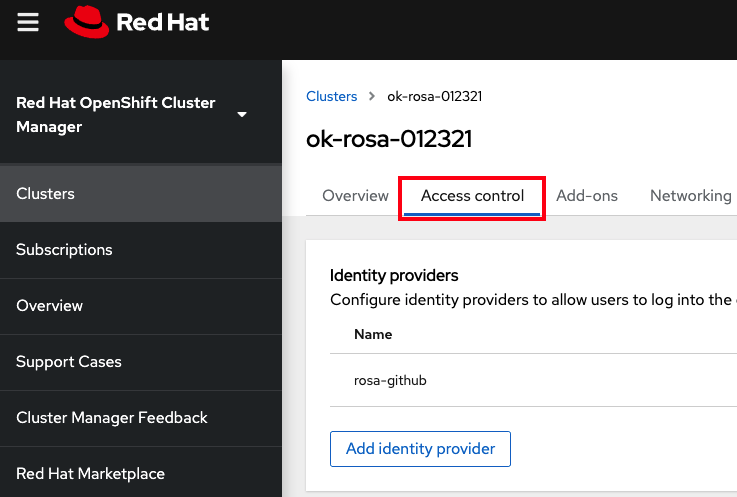
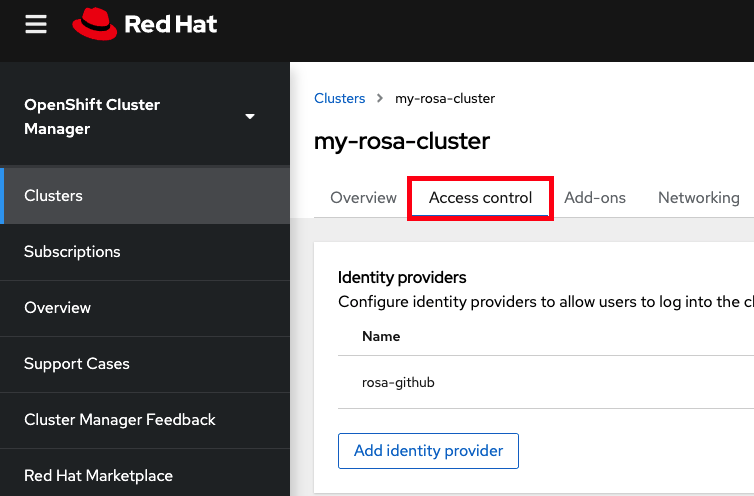
minor updates

diff --git a/rosa-workshop/rosa/7-managing_nodes.md b/rosa-workshop/rosa/7-managing_nodes.md
@@ -7,7 +7,7 @@ When using your cluster there may be times when you need to change aspects of yo
 1. To scale the number of worker nodes we need to edit the machine pool they belong to. The default machine pool is called “default” which is created with every cluster.
 1. We should see the “default” pool that is created with each cluster.
 
-    `rosa list machinepools -c <cluster-name>`
+    `rosa list machinepools --cluster=<cluster-name>`
 
     You will see a response like:
 
@@ -16,15 +16,46 @@ When using your cluster there may be times when you need to change aspects of yo
 
 1. To scale this out to 3 nodes run
 
-    `rosa edit machinepool -c <cluster-name> --replicas <number-worker-nodes> <machinepool-name>`
+    `rosa edit machinepool --cluster=<cluster-name> --replicas <number-worker-nodes> <machinepool-name>`
 
     For example:
 
-    `rosa edit machinepool -c my-cluster --replicas 3 default`
+    `rosa edit machinepool --cluster=my-rosa-cluster --replicas 3 default`
 
-1. Run `rosa describe cluster -c <cluster-name>` to see that it has taken effect.  You will see a response showing 3 nodes:
+1. Run the following to see that it has taken effect
 
-    ![mp](images/7-describe.png)
+    `rosa describe cluster --cluster=<cluster-name>`
+
+    You will see a response showing 3 compute nodes:
+
+        $ rosa describe cluster --cluster=my-rosa-cluster
+        Name:                       my-rosa-cluster
+        ID:                         1jgpoh4jm5jjiu12k12h000000000000
+        External ID:                a3fa460d-6405-48aa-ad24-000000000000
+        OpenShift Version:          4.7.2
+        Channel Group:              stable
+        DNS:                        my-rosa-cluster.abcd.p1.openshiftapps.com
+        AWS Account:                000000000000
+        API URL:                    https://api.my-rosa-cluster.abcd.p1.openshiftapps.com:6443
+        Console URL:                https://console-openshift-console.apps.my-rosa-cluster.abcd.p1.openshiftapps.com
+        Region:                     us-east-1
+        Multi-AZ:                   false
+        Nodes:
+         - Master:                  3
+         - Infra:                   2
+         - Compute:                 3 (m5.xlarge)
+        Network:
+         - Service CIDR:            172.30.0.0/16
+         - Machine CIDR:            10.0.0.0/16
+         - Pod CIDR:                10.128.0.0/14
+         - Host Prefix:             /23
+        State:                      ready 
+        Private:                    No
+        Created:                    Mar 19 2021 00:03:19 UTC
+        Details Page:               https://cloud.redhat.com/openshift/details/1jgpoh4jm5jjiu12k12h000000000000
+
+
+    <!--- ![mp](images/7-describe.png) -->
 
 1. One can also confirm this by accessing OCM (<https://cloud.redhat.com/openshift>) and selecting the cluster
 
@@ -43,12 +74,12 @@ When using your cluster there may be times when you need to change aspects of yo
 
     For example:
 
-        $ rosa create machinepool --cluster=my-cluster --name=db-nodes-mp --replicas=2 --labels='app=db','tier=backend'
-        I: Machine pool 'db-nodes-mp' created successfully on cluster 'my-cluster'
+        $ rosa create machinepool --cluster=my-rosa-cluster --name=db-nodes-mp --replicas=2 --labels='app=db','tier=backend'
+        I: Machine pool 'db-nodes-mp' created successfully on cluster 'my-rosa-cluster'
         
     This will create an additional 2 nodes that can be managed as one unit and also assign them the labels shown.  
 
-1. Now run `rosa list machinepools -c <cluster-name>` to see the new machine pool created along with the labels we gave.
+1. Now run `rosa list machinepools --cluster=<cluster-name>` to see the new machine pool created along with the labels we gave.
 
 	![mp](images/7-new_mp.png)
 
@@ -61,9 +92,9 @@ When using your cluster there may be times when you need to change aspects of yo
 
 	For example:
 	
-    `rosa create machinepool --cluster=my-cluster --name=db-nodes-large-mp --replicas=2 --labels='app=db','tier=backend' --instance-type=m5.2xlarge`
+    `rosa create machinepool --cluster=my-rosa-cluster --name=db-nodes-large-mp --replicas=2 --labels='app=db','tier=backend' --instance-type=m5.2xlarge`
 
-1. If you’d like to see all the [instance types available](https://www.openshift.com/products/dedicated/service-definition#compute-types), or to make the decisions step-by-step, then use the `--interactive` flag
+1. If you’d like to see all the [instance types available](https://www.openshift.com/products/dedicated/service-definition#compute-types), or to make the decisions step-by-step, then use the `--interactive` flag:
 
     `rosa create machinepool -c <cluster-name> --interactive`
 

diff --git a/rosa-workshop/rosa/6-access_cluster.md b/rosa-workshop/rosa/6-access_cluster.md
@@ -2,7 +2,7 @@
 There are multiple ways to interact with your cluster.  You can connect to it via the CLI or via the Web Console. We will review both options below.
 
 #### Accessing the cluster via the Web Console
-1. Copy the url provided from the previous step where we set up the IdP and paste it into your web browser.  It will be in the format of <https://console-openshift-console.apps.rosa-1234.aaaa.p1.openshiftapps.com> 
+1. Copy the url provided from the previous step where we set up the IdP and paste it into your web browser.  It will be in the format of <https://console-openshift-console.apps.my-rosa-cluster.abcd.p1.openshiftapps.com> 
 1. Click on your IdP.  In the guide we created “rosa-github”.
 
     ![login](images/4-login.png)
@@ -29,8 +29,8 @@ In order to access the cluster via the CLI you must have the `oc` command instal
 
 1. Copy the `oc login` command and paste it into your terminal. Press enter
 
-        $ oc login --token=sha256~1ytZZb9kwYDvPqGyPuxwMcREX0000000000000000 --server=https://api.ok-rosa-012321.vgyx.p1.openshiftapps.com:6443
-        Logged into "https://api.ok-rosa-012321.vgyx.p1.openshiftapps.com:6443" as "<User>" using the token provided.
+        $ oc login --token=sha256~GBAfS4JQ0t1UTKYHbWAK6OUWGUkdMGz000000000000 --server=https://api.my-rosa-cluster.abcd.p1.openshiftapps.com:6443
+        Logged into "https://api.my-rosa-cluster.abcd.p1.openshiftapps.com:6443" as "rosa-user" using the token provided.
         
         You have access to 79 projects, the list has been suppressed. You can list all projects with ' projects'
         
@@ -39,7 +39,7 @@ In order to access the cluster via the CLI you must have the `oc` command instal
 1. We can confirm that we are now the user we logged in with by running `oc whoami`
 
         $ oc whoami
-        <User>
+        rosa-user
 
 1. We can now start using our cluster.
 

diff --git a/rosa-workshop/rosa/2-deploy.md b/rosa-workshop/rosa/2-deploy.md
@@ -7,17 +7,21 @@ Use the `rosa` CLI to create the ROSA cluster.
 
     `rosa create cluster --cluster-name=<cluster name>`
 
+    For example: 
+
+    `rosa create cluster --cluster-name=my-rosa-cluster`
+
     You should see a response like the following:
 
     
-        I: Creating cluster 'rosa-1234'
+        I: Creating cluster 'my-rosa-cluster'
         I: To view a list of clusters and their status, run 'rosa list clusters'
-        I: Cluster 'rosa-1234' has been created.
+        I: Cluster 'my-rosa-cluster' has been created.
         I: Once the cluster is installed you will need to add an Identity Provider before you can login into the cluster. See 'rosa create idp --help' for more information.
-        I: To determine when your cluster is Ready, run 'rosa describe cluster -c rosa-1234'.
-        I: To watch your cluster installation logs, run 'rosa logs install -c rosa-1234 --watch'.
-        Name:                       rosa-1234
-        DNS:                        rosa-1234.aaaa.p1.openshiftapps.com
+        I: To determine when your cluster is Ready, run 'rosa describe cluster -c my-rosa-cluster'.
+        I: To watch your cluster installation logs, run 'rosa logs install -c my-rosa-cluster --watch'.
+        Name:                       my-rosa-cluster
+        DNS:                        my-rosa-cluster.abcd.p1.openshiftapps.com
         ID:                         1idb8u7qc0jinctmmf0000000000000
         External ID:                
         AWS Account:                000000000000
@@ -44,7 +48,7 @@ Use the `rosa` CLI to create the ROSA cluster.
 
 1. You can run the following command to check the status of the cluster
 
-    `rosa describe cluster rosa-1234`
+    `rosa describe cluster my-rosa-cluster`
 
     You should notice the state change from “pending” to “installing”.
     

diff --git a/rosa-workshop/rosa/3-create_initial_admin.md b/rosa-workshop/rosa/3-create_initial_admin.md
@@ -3,22 +3,22 @@ If you want to be able to access your cluster immediately and have a cluster-adm
 
 1. Run this command to create the admin user
 
-    `rosa create admin -c rosa-1234` 
+    `rosa create admin --cluster=my-rosa-cluster` 
 
     You will see a response like the following:
 
         W: It is recommended to add an identity provider to login to this cluster. See 'rosa create idp --help' for more information.
-        I: Admin account has been added to cluster 'rosa-1234'. It may take up to a minute for the account to become active.
+        I: Admin account has been added to cluster 'my-rosa-cluster'. It may take up to a minute for the account to become active.
         I: To login, run the following command:
-        oc login https://api.rosa-1234.aaaa.p1.openshiftapps.com:6443 \
+        oc login https://api.my-rosa-cluster.abcd.p1.openshiftapps.com:6443 \
         --username cluster-admin \
-        --password FWGYL-2mkJI-3ZTTZ-00000
+        --password FWGYL-2mkJI-00000-00000
 
 2. Copy the login command returned to you in the previous step and paste that into your terminal. This should log you into the cluster via the CLI so you can start using the cluster.
     
-        $ oc login https://api.rosa-1234.aaaa.p1.openshiftapps.com:6443 \
+        $ oc login https://api.my-rosa-cluster.abcd.p1.openshiftapps.com:6443 \
         >    --username cluster-admin \
-        >    --password FWGYL-2mkJI-3ZTTZ-00000
+        >    --password FWGYL-2mkJI-00000-00000
 
         Login successful.
 

diff --git a/rosa-workshop/rosa/1-account_setup.md b/rosa-workshop/rosa/1-account_setup.md
@@ -95,7 +95,7 @@ Verify that all the credentials set up are correct.
         OCM Account Name:             Your Name
         OCM Account Username:         you@domain.com
         OCM Account Email:            you@domain.com
-        OCM Organization ID:          1HopHfA2hc00000000000000000
+        OCM Organization ID:          1HopHfA20000000000000000000
         OCM Organization Name:        Red Hat
         OCM Organization External ID: 0000000
 
@@ -114,7 +114,7 @@ This step runs a CloudFormation template that prepares your AWS account for clus
 
 1. Run `rosa init` in your terminal window.  You will see a response like the below.  Make sure all looks good and there are no errors.
 
-        I: Logged in as 'user@redhat.com' on 'https://api.openshift.com'
+        I: Logged in as 'you@domain.com' on 'https://api.openshift.com'
         I: Validating AWS credentials...
         I: AWS credentials are valid!
         I: Validating SCP policies...

diff --git a/rosa-workshop/rosa/8-autoscaling.md b/rosa-workshop/rosa/8-autoscaling.md
@@ -26,7 +26,7 @@ We will focus on the second as it relates to ROSA.
 
     For example:
     
-    `$ rosa edit machinepool -c my-cluster --enable-autoscaling default --min-replicas=2 --max-replicas=4`
+    `$ rosa edit machinepool -c my-rosa-cluster --enable-autoscaling default --min-replicas=2 --max-replicas=4`
 
     This will create an autoscaler for the worker nodes to scale between 2 and 4 nodes depending on the resources. 
 
@@ -39,7 +39,7 @@ We will focus on the second as it relates to ROSA.
     You will see a response like:
 
         ID         AUTOSCALING  REPLICAS  INSTANCE TYPE  LABELS     TAINTS    AVAILABILITY ZONES
-        Default    Yes          2-4       m5.xlarge                           us-east-1a
+        default    Yes          2-4       m5.xlarge                           us-east-1a
 
 
 

diff --git a/rosa-workshop/rosa/13-obtaining_support.md b/rosa-workshop/rosa/13-obtaining_support.md
@@ -2,8 +2,8 @@
 
 Finding the right help when you need it is important.  So we will review the resources at your disposal for when you need some assistance.
 
-- [ROSA Documentation](https://docs.openshift.com/rosa/welcome/index.html)
-- [OpenShift Documentation](https://docs.openshift.com/container-platform/4.7/welcome/index.html)(for all OpenShift related information)
+- [ROSA Documentation](https://docs.openshift.com/rosa/welcome/index.html) (ROSA specific documentation)
+- [OpenShift Documentation](https://docs.openshift.com/container-platform/4.7/welcome/index.html) (for all OpenShift related information)
 - [Blogs](https://www.redhat.com/en/blog)
 - [Policies and Definitions](https://www.openshift.com/products/dedicated/policies)
 - Contact Support - Reviewed in detail below

diff --git a/rosa-workshop/rosa/9-upgrade.md b/rosa-workshop/rosa/9-upgrade.md
@@ -24,7 +24,7 @@ We will go through these three scenarios.
 
 1. Upgrade the cluster to the latest version by running
 
- 	`rosa upgrade cluster -c my-cluster --version 4.6.15`
+ 	`rosa upgrade cluster -c my-rosa-cluster --version 4.6.15`
 
 1. This will schedule the cluster for immediate upgrade.  It will take some time to complete.
 
